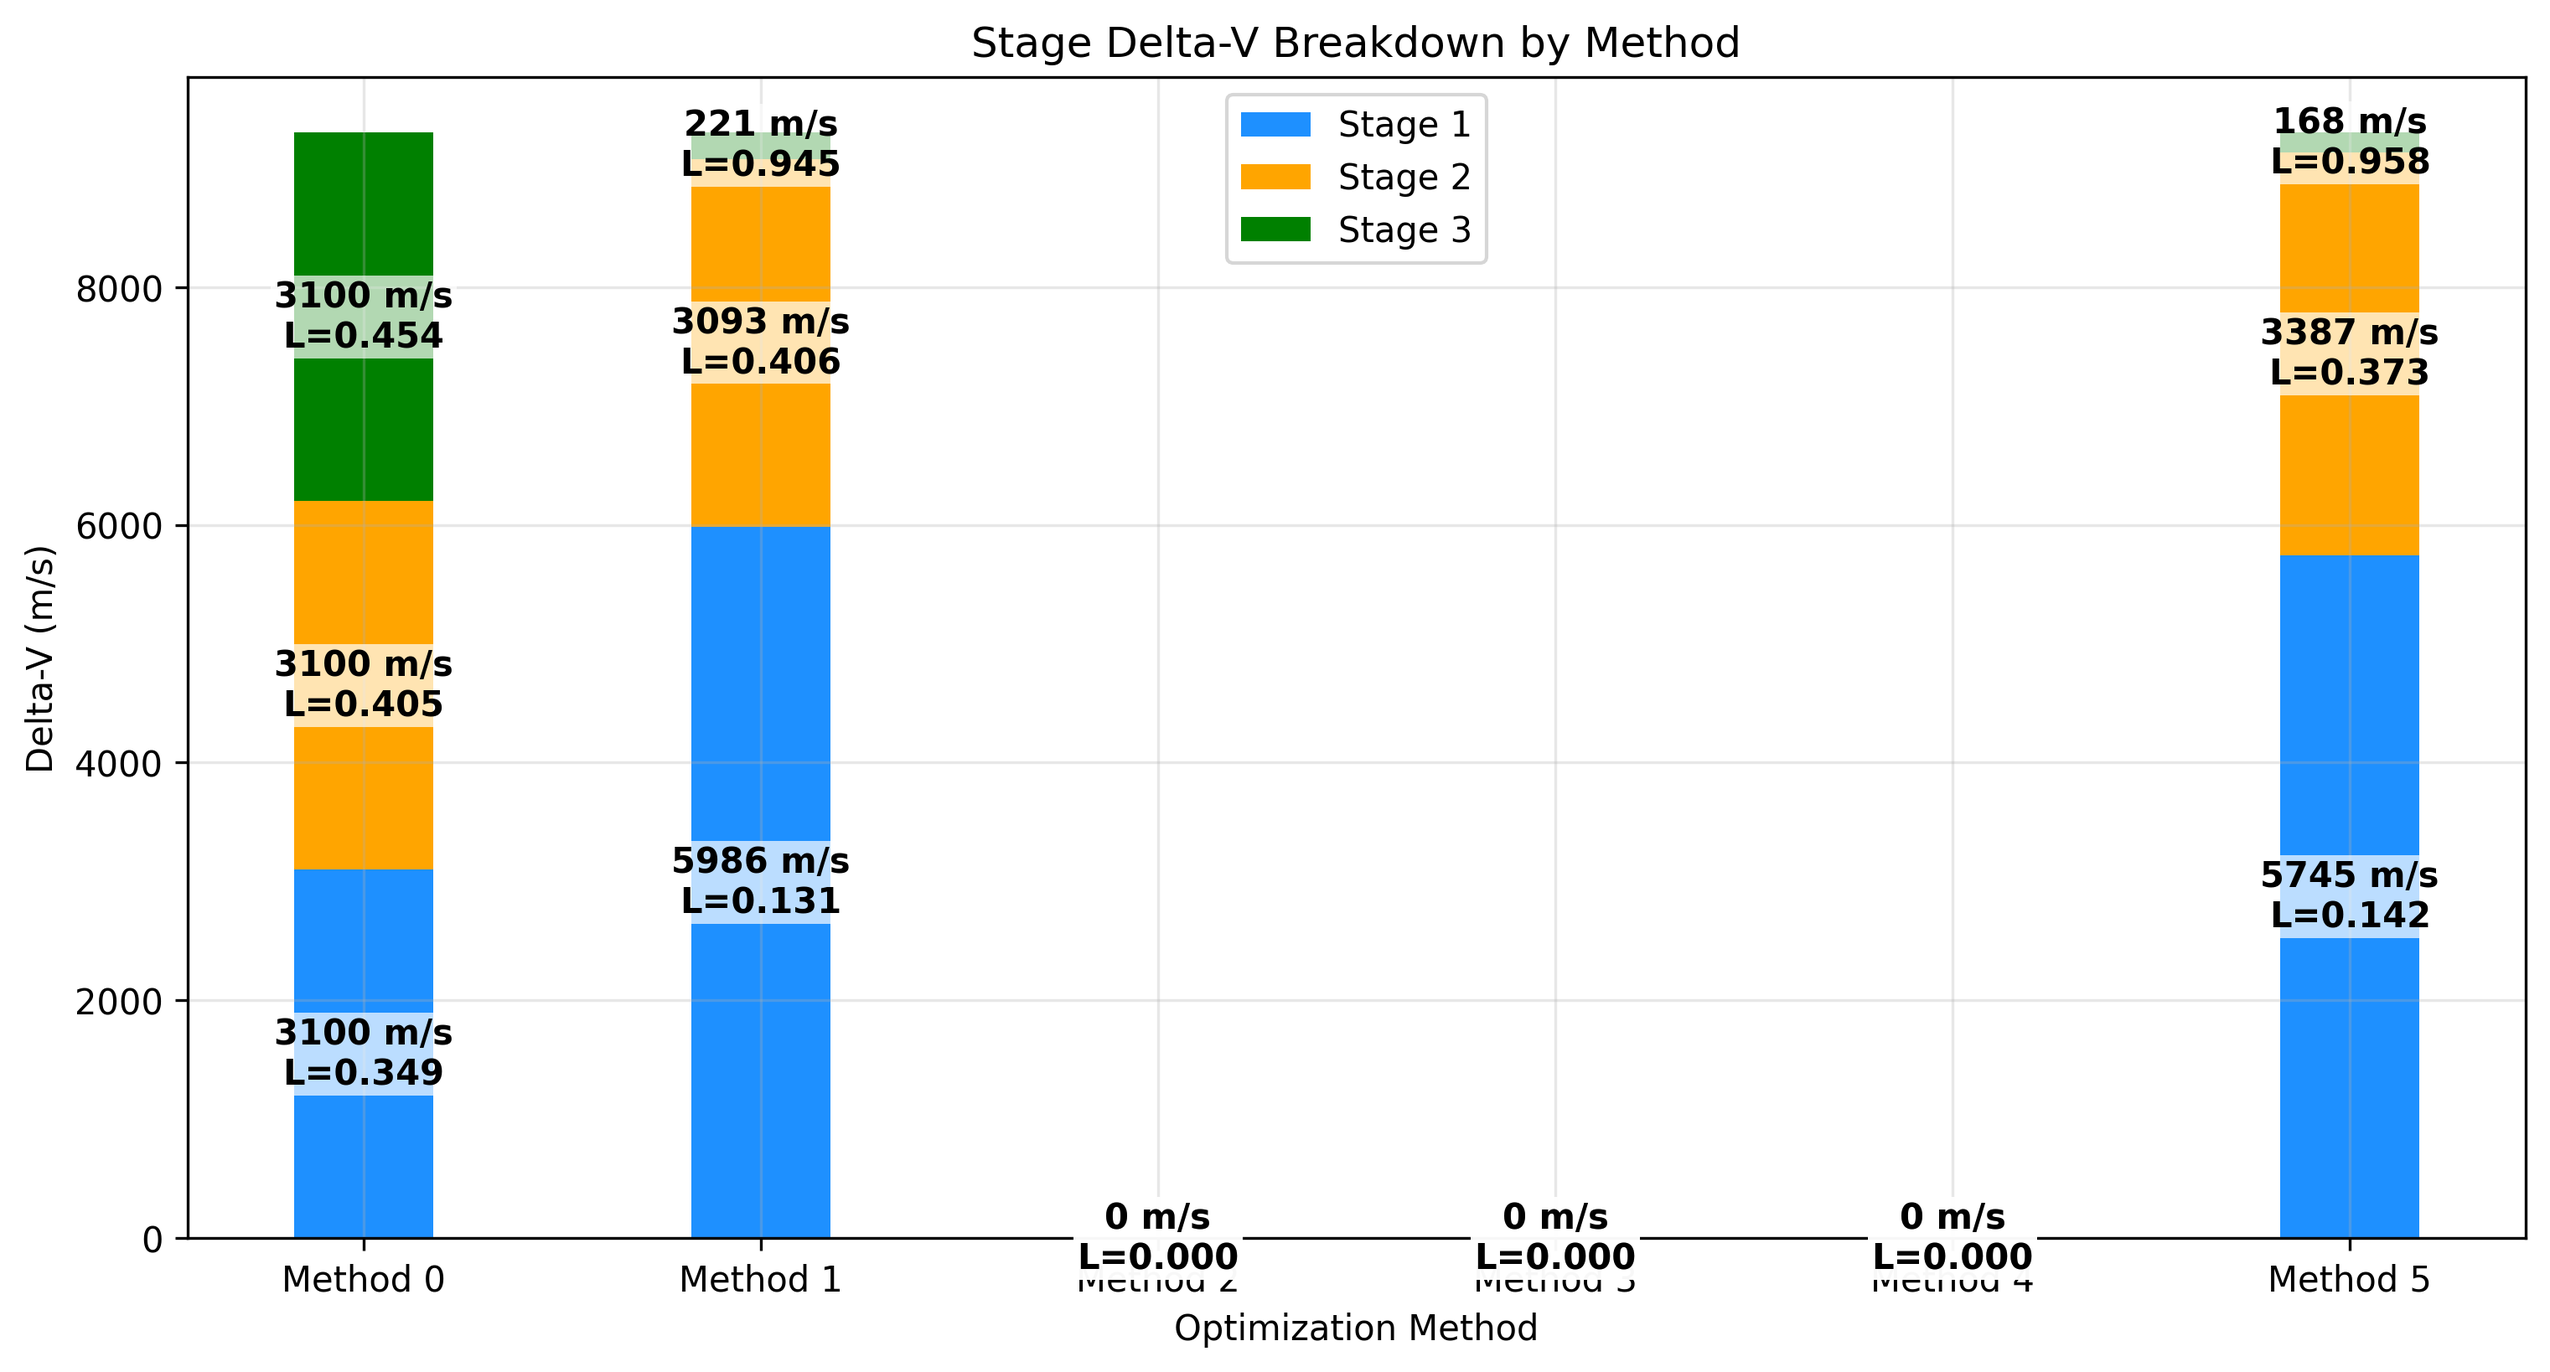
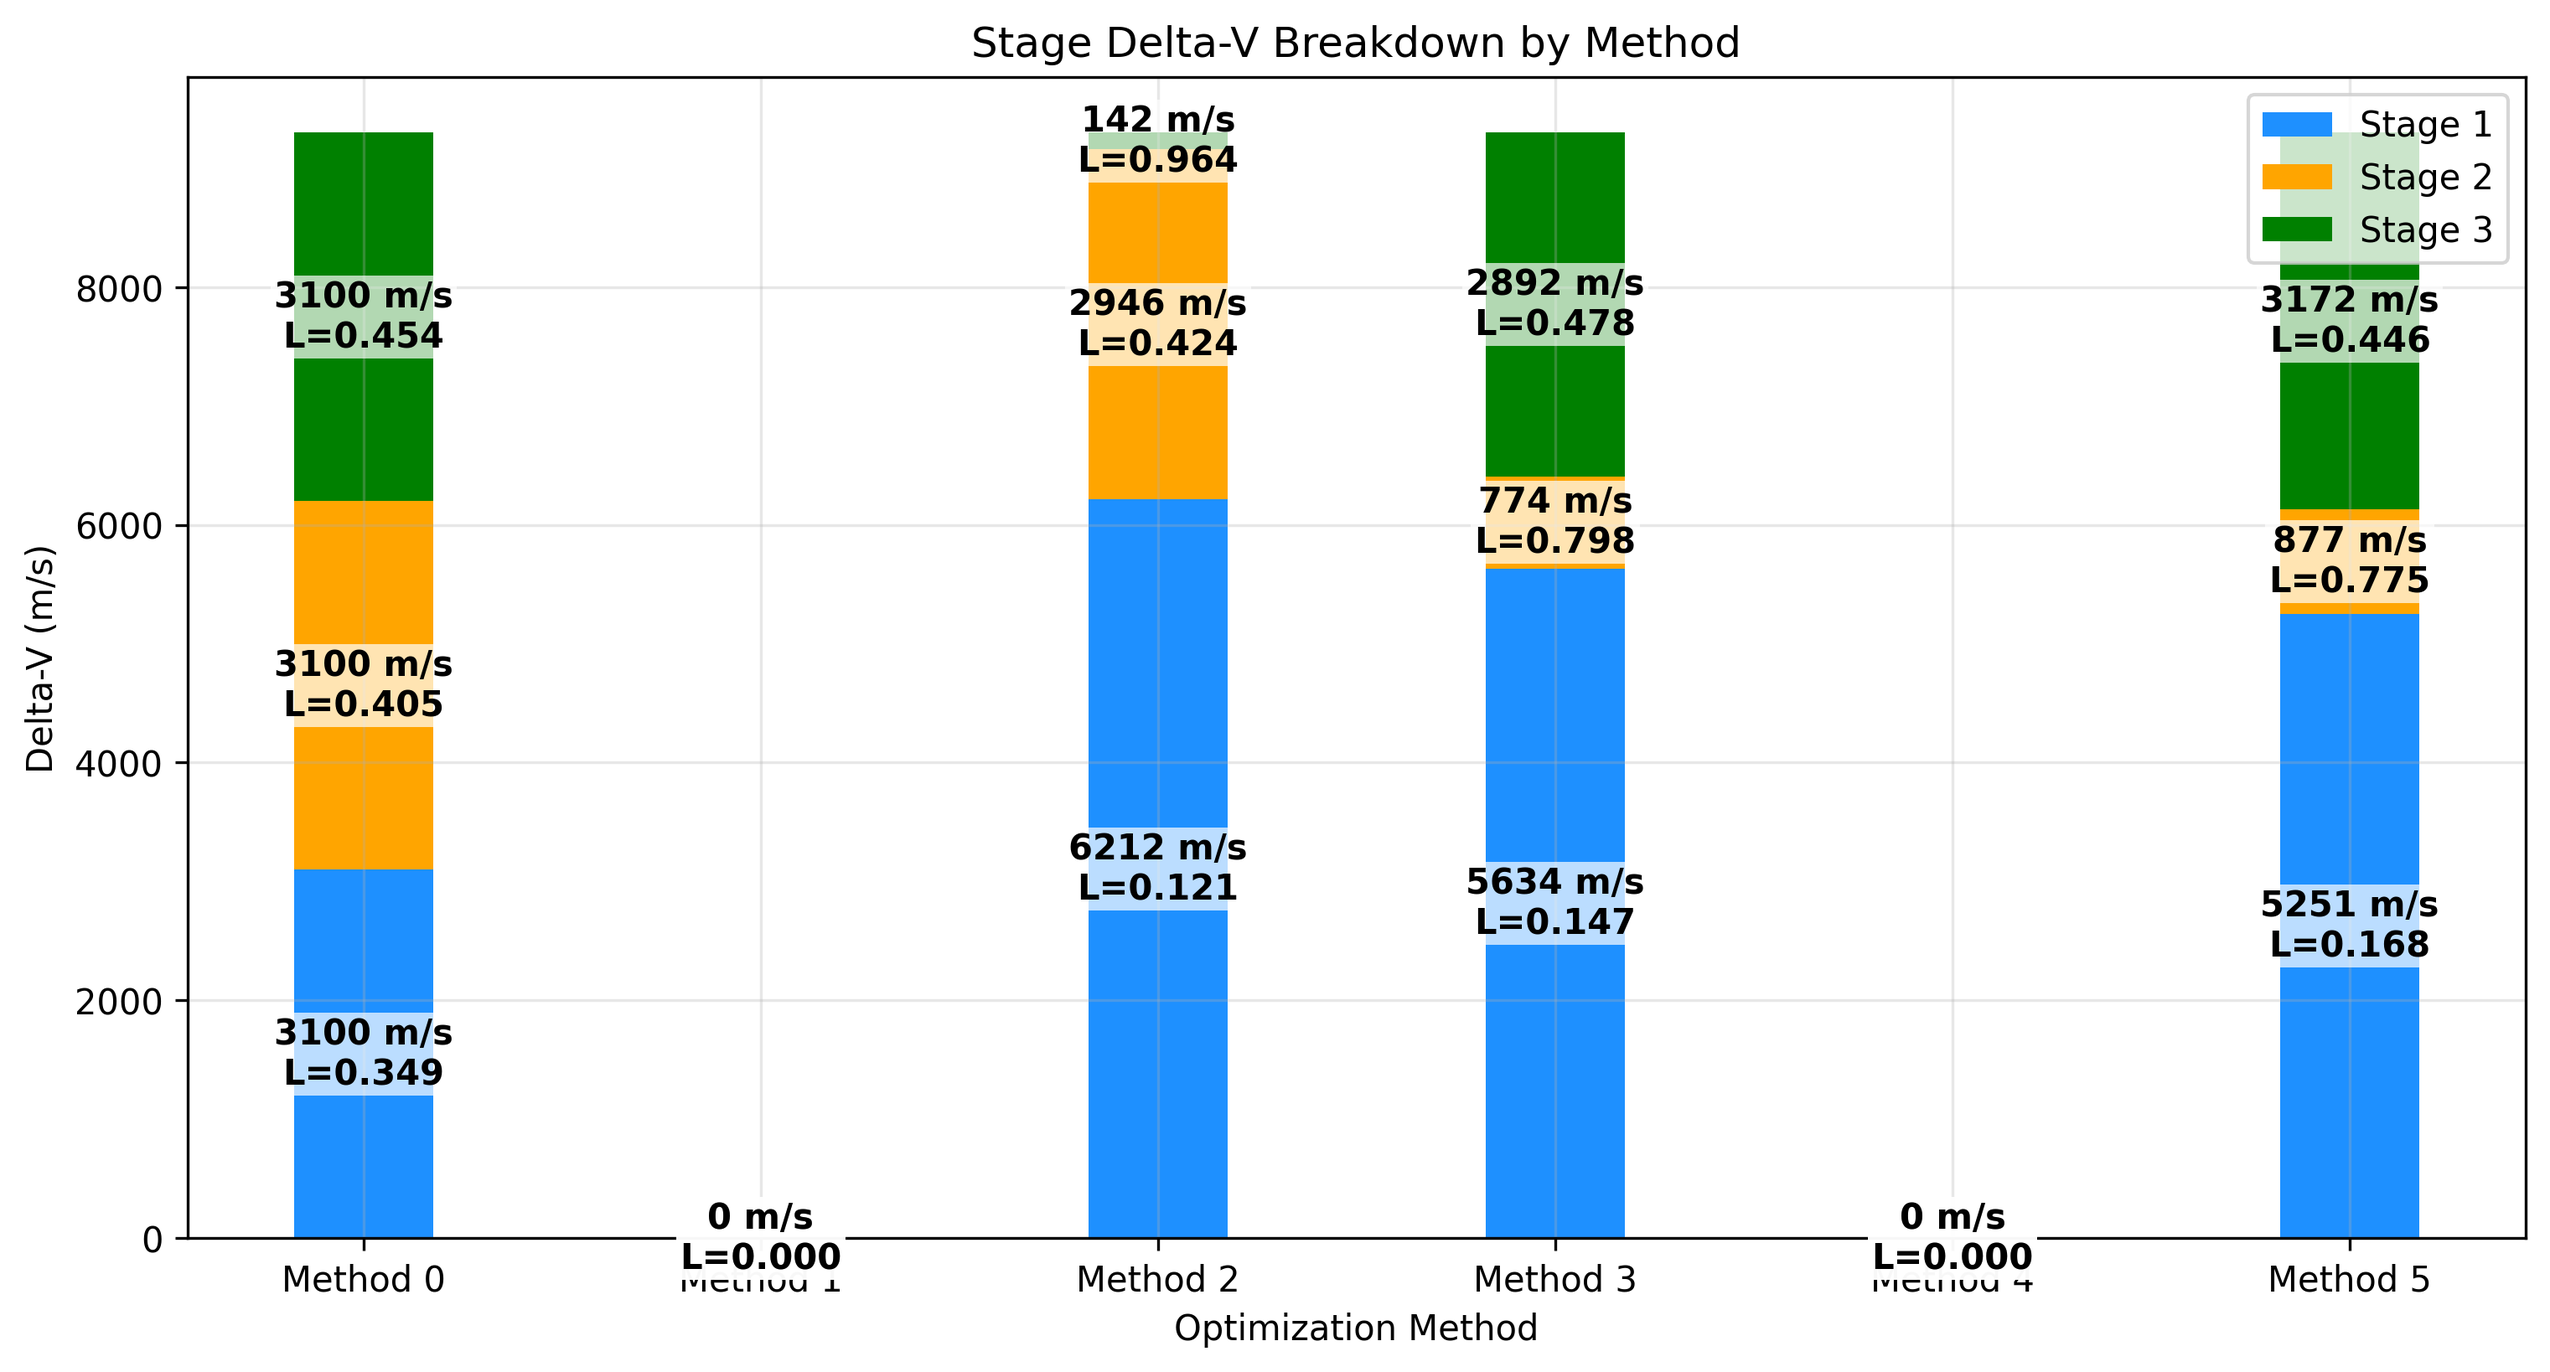
improved solvers

diff --git a/Stage_Opt/src/optimization/solvers/de_solver.py b/Stage_Opt/src/optimization/solvers/de_solver.py
@@ -1,4 +1,4 @@
-"""Differential Evolution solver implementation."""
+"""Differential Evolution solver implementation with enhanced constraint handling."""
 import time
 import numpy as np
 from scipy.optimize import differential_evolution, minimize
@@ -7,11 +7,11 @@ from .base_solver import BaseSolver
 from ..objective import objective_with_penalty
 
 class DifferentialEvolutionSolver(BaseSolver):
-    """Differential Evolution solver implementation."""
+    """Differential Evolution solver implementation with enhanced constraint handling."""
     
-    def __init__(self, G0, ISP, EPSILON, TOTAL_DELTA_V, bounds, config=None, strategy='best1bin', maxiter=1000, 
-                 popsize=15, tol=0.01, mutation=(0.5, 1), recombination=0.7):
-        """Initialize DE solver with parameters."""
+    def __init__(self, G0, ISP, EPSILON, TOTAL_DELTA_V, bounds, config=None, strategy='best1bin', maxiter=2000, 
+                 popsize=30, tol=1e-8, mutation=(0.3, 0.7), recombination=0.9):
+        """Initialize DE solver with optimized parameters."""
         super().__init__(G0, ISP, EPSILON, TOTAL_DELTA_V, bounds, config)
         self.strategy = strategy
         self.maxiter = maxiter
@@ -20,6 +20,9 @@ class DifferentialEvolutionSolver(BaseSolver):
         self.mutation = mutation
         self.recombination = recombination
         self.n_stages = len(bounds)
+        self.best_solution = None
+        self.best_fitness = float('-inf')
+        self.best_violation = float('inf')
         
     def project_to_feasible(self, x):
         """Project solution to feasible space with high precision."""
@@ -29,161 +32,133 @@ class DifferentialEvolutionSolver(BaseSolver):
         for i in range(self.n_stages):
             lower, upper = self.bounds[i]
             x_proj[i] = np.clip(x_proj[i], lower, upper)
-        
-        # Iterative projection to handle numerical precision
-        max_iterations = 10
-        for _ in range(max_iterations):
-            # Normalize to total ΔV
-            total = np.sum(x_proj)
-            if total > 0:
-                x_proj *= self.TOTAL_DELTA_V / total
-                
-                # Verify constraint
-                error = np.abs(np.sum(x_proj) - self.TOTAL_DELTA_V)
-                if error <= 1e-10:  # Strict convergence check
-                    break
-                    
-                # Distribute remaining error proportionally
-                adjustment = (self.TOTAL_DELTA_V - np.sum(x_proj)) / self.n_stages
-                x_proj += adjustment
-                
-                # Re-check bounds after adjustment
-                for i in range(self.n_stages):
-                    lower, upper = self.bounds[i]
-                    x_proj[i] = np.clip(x_proj[i], lower, upper)
-        
+            
+        # Scale to ensure sum equals 1.0 with high precision
+        total = np.sum(x_proj)
+        if abs(total - 1.0) > 1e-10:  # Tighter tolerance
+            x_proj /= total
+            
         return x_proj
-        
-    def custom_init(self):
-        """Generate initial population that satisfies constraints."""
-        population = np.zeros((self.popsize * self.n_stages, self.n_stages))
-        
-        for i in range(self.popsize * self.n_stages):
-            # Generate random fractions that sum to 1
-            fractions = np.random.random(self.n_stages)
-            fractions /= np.sum(fractions)
+
+    def polish_solution(self, x, violation):
+        """Polish promising solutions using L-BFGS-B."""
+        if violation > 0.01:  # Only polish low-violation solutions
+            return x, self.objective(x)
             
-            # Scale by total ΔV and project to feasible space
-            population[i] = self.project_to_feasible(fractions * self.TOTAL_DELTA_V)
-            
-        return population
+        scales = np.linspace(0.98, 1.02, 5)  # Try multiple scaling factors
+        best_x = x
+        best_obj = self.objective(x)
         
-    def objective(self, x):
-        """Objective function for DE optimization."""
-        # Project solution to feasible space
-        x_proj = self.project_to_feasible(x)
-        
-        # Check constraints
-        is_feasible, violation = self.check_constraints(x_proj)
-        if not is_feasible:
-            return float('inf')  # Return worst possible fitness for infeasible solutions
-        
-        return -objective_with_penalty(  # Negative because DE minimizes
-            dv=x_proj,
-            G0=self.G0,
-            ISP=self.ISP,
-            EPSILON=self.EPSILON,
-            TOTAL_DELTA_V=self.TOTAL_DELTA_V,
-            return_tuple=False
-        )
-        
+        for scale in scales:
+            try:
+                result = minimize(
+                    self.objective,
+                    x * scale,
+                    method='L-BFGS-B',
+                    bounds=self.bounds,
+                    options={'ftol': 1e-10, 'maxiter': 100}
+                )
+                if result.success and result.fun < best_obj:
+                    best_x = result.x
+                    best_obj = result.fun
+            except:
+                continue
+                
+        return best_x, best_obj
+
     def solve(self, initial_guess, bounds):
-        """Solve using Differential Evolution."""
+        """Solve using enhanced Differential Evolution."""
         try:
             logger.info("Starting Differential Evolution optimization...")
             start_time = time.time()
             
             # Generate feasible initial population
-            init_pop = self.custom_init()
+            population = np.zeros((self.popsize, self.n_stages))
+            for i in range(self.popsize):
+                # Start with uniform random values
+                x = np.random.uniform(low=[b[0] for b in bounds], 
+                                    high=[b[1] for b in bounds], 
+                                    size=self.n_stages)
+                # Project to feasible space
+                population[i] = self.project_to_feasible(x)
             
+            # Run DE with enhanced parameters
             result = differential_evolution(
                 self.objective,
                 bounds=bounds,
                 strategy=self.strategy,
                 maxiter=self.maxiter,
                 popsize=self.popsize,
-                tol=1e-8,  # Tighter tolerance
-                mutation=(0.3, 0.8),  # Reduced mutation range for stability
-                recombination=0.9,  # Increased recombination
-                init='random',
+                tol=self.tol,
+                mutation=self.mutation,
+                recombination=self.recombination,
+                init=population,
+                updating='immediate',  # Immediate updating for better convergence
+                workers=1,  # Sequential for better reproducibility
                 disp=False,
-                workers=1,
-                updating='deferred',
-                polish=True,  # Enable polishing step
-                seed=42
+                polish=False  # We'll do custom polishing
             )
             
-            execution_time = time.time() - start_time
+            # Polish the solution if promising
+            final_x, final_obj = self.polish_solution(result.x, self.get_violation(result.x))
             
-            # Project final solution with L-BFGS-B
-            x_final = result.x
-            best_violation = float('inf')
-            best_x = None
+            # Track best solution
+            if final_obj < result.fun:
+                result.x = final_x
+                result.fun = final_obj
             
-            # Try multiple projections with different scalings
-            for scale in [1.0, 0.99, 1.01]:
-                x_try = self.project_to_feasible(scale * x_final)
-                _, violation = self.check_constraints(x_try)
-                if violation < best_violation:
-                    best_violation = violation
-                    best_x = x_try
-                    
-                    # If we found a good enough solution, stop trying
-                    if violation < 1e-8:
-                        break
+            duration = time.time() - start_time
+            logger.info(f"DE optimization completed in {duration:.2f} seconds")
             
-            # One final L-BFGS-B polish if needed
-            if best_violation > 1e-8:
-                def final_objective(x):
-                    return self.objective(x)
-                    
-                def total_constraint(x):
-                    return np.sum(x) - self.TOTAL_DELTA_V
-                    
-                constraints = {'type': 'eq', 'fun': total_constraint}
-                
-                polish_result = minimize(
-                    final_objective,
-                    best_x,
-                    method='L-BFGS-B',
-                    bounds=bounds,
-                    constraints=constraints,
-                    options={'ftol': 1e-12, 'maxiter': 100}
-                )
-                
-                if polish_result.success:
-                    x_try = polish_result.x
-                    _, violation = self.check_constraints(x_try)
-                    if violation < best_violation:
-                        best_violation = violation
-                        best_x = x_try
-            
-            if best_violation < 1e-4:  # Only accept if we found a feasible solution
-                return self.process_results(
-                    x=best_x,
-                    success=True,
-                    message="Optimization successful",
-                    n_iterations=result.nit if hasattr(result, 'nit') else self.maxiter,
-                    n_function_evals=result.nfev if hasattr(result, 'nfev') else 0,
-                    time=execution_time
-                )
-            else:
-                return self.process_results(
-                    x=initial_guess,
-                    success=False,
-                    message=f"Failed to find feasible solution (violation={best_violation:.2e})",
-                    n_iterations=result.nit if hasattr(result, 'nit') else self.maxiter,
-                    n_function_evals=result.nfev if hasattr(result, 'nfev') else 0,
-                    time=execution_time
-                )
+            return {
+                'x': result.x,
+                'fun': result.fun,
+                'success': result.success,
+                'message': result.message,
+                'nfev': result.nfev,
+                'time': duration
+            }
             
         except Exception as e:
-            logger.error(f"Error in Differential Evolution solver: {str(e)}")
-            return self.process_results(
-                x=initial_guess,
-                success=False,
-                message=str(e),
-                n_iterations=0,
-                n_function_evals=0,
-                time=0.0
+            logger.error(f"DE optimization failed: {str(e)}")
+            return {
+                'x': initial_guess,
+                'fun': float('inf'),
+                'success': False,
+                'message': str(e),
+                'nfev': 0,
+                'time': time.time() - start_time
+            }
+            
+    def get_violation(self, x):
+        """Calculate constraint violation."""
+        total = np.sum(x)
+        violation = abs(total - 1.0)
+        
+        # Check bound constraints
+        for i, (lower, upper) in enumerate(self.bounds):
+            if x[i] < lower:
+                violation += abs(x[i] - lower)
+            elif x[i] > upper:
+                violation += abs(x[i] - upper)
+                
+        return violation
+
+    def objective(self, x):
+        """Objective function with enhanced constraint handling."""
+        violation = self.get_violation(x)
+        
+        if violation > 0.1:  # Major violation
+            return 100.0 * violation
+        elif violation > 0:  # Minor violation
+            return 10.0 * violation
+            
+        # Calculate payload fraction
+        try:
+            result = objective_with_penalty(
+                x, self.G0, self.ISP, self.EPSILON,
+                self.TOTAL_DELTA_V, self.bounds
             )
+            return result
+        except:
+            return float('inf')

diff --git a/Stage_Opt/src/optimization/solvers/base_solver.py b/Stage_Opt/src/optimization/solvers/base_solver.py
@@ -29,12 +29,13 @@ class BaseSolver(ABC):
         self.TOTAL_DELTA_V = float(TOTAL_DELTA_V)
         self.bounds = bounds
         self.config = config
+        self.n_stages = len(bounds)  # Number of stages
+        self.name = self.__class__.__name__
+        
+        logger.debug(f"Initialized {self.name} with {self.n_stages} stages")
         
         # Initialize cache
         self.cache = OptimizationCache()
-        
-        # Initialize name
-        self.name = self.__class__.__name__
         
     def calculate_stage_ratios(self, x: np.ndarray):
         """Calculate stage ratios for a solution.

diff --git a/Stage_Opt/src/optimization/solvers/pso_solver.py b/Stage_Opt/src/optimization/solvers/pso_solver.py
@@ -17,6 +17,7 @@ class ParticleSwarmOptimizer(BaseSolver):
         self.w = w  # Inertia weight
         self.c1 = c1  # Cognitive parameter
         self.c2 = c2  # Social parameter
+        self.n_stages = len(bounds)  # Number of stages
         
     def project_to_feasible(self, x):
         """Project solution to feasible space with high precision."""
